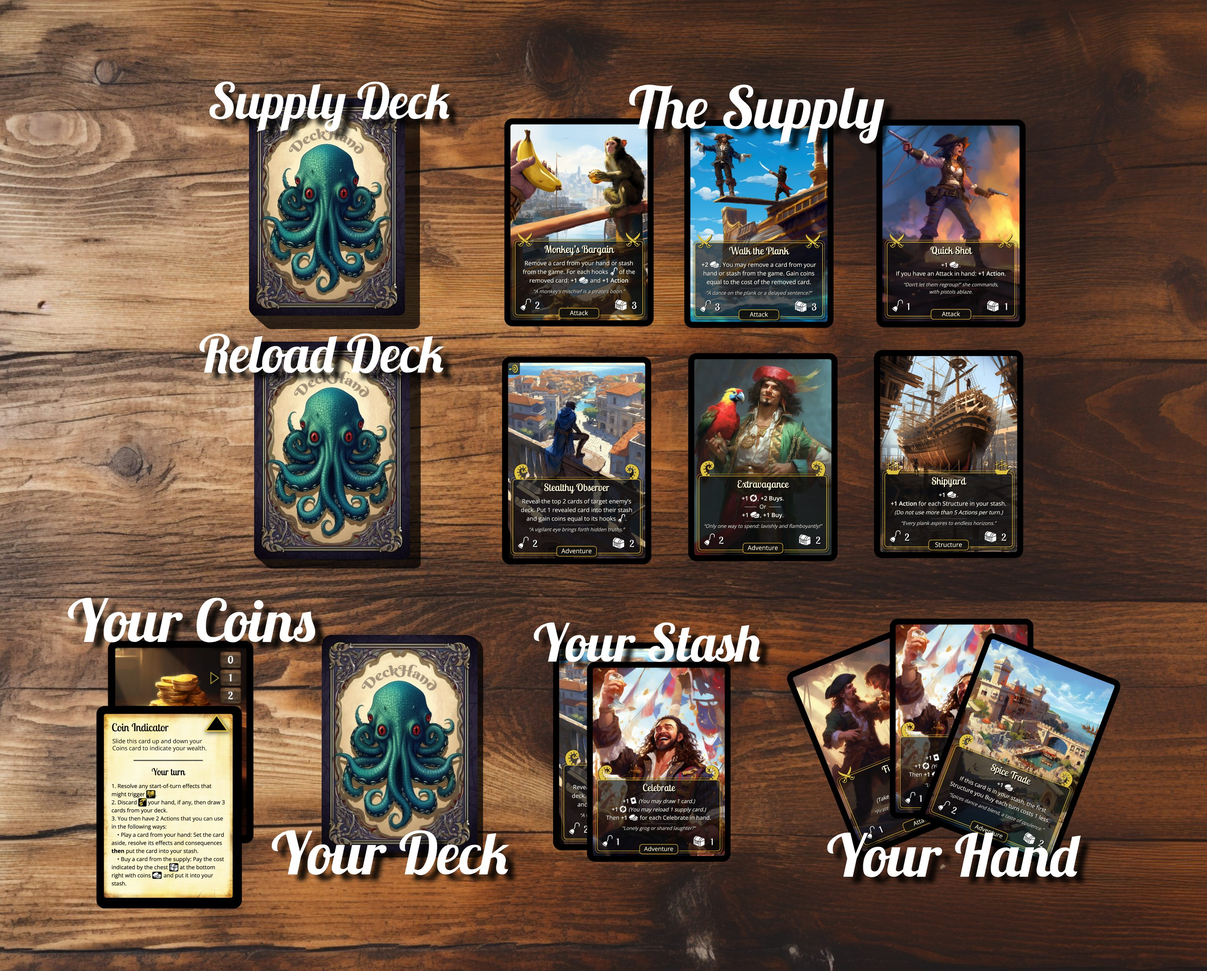
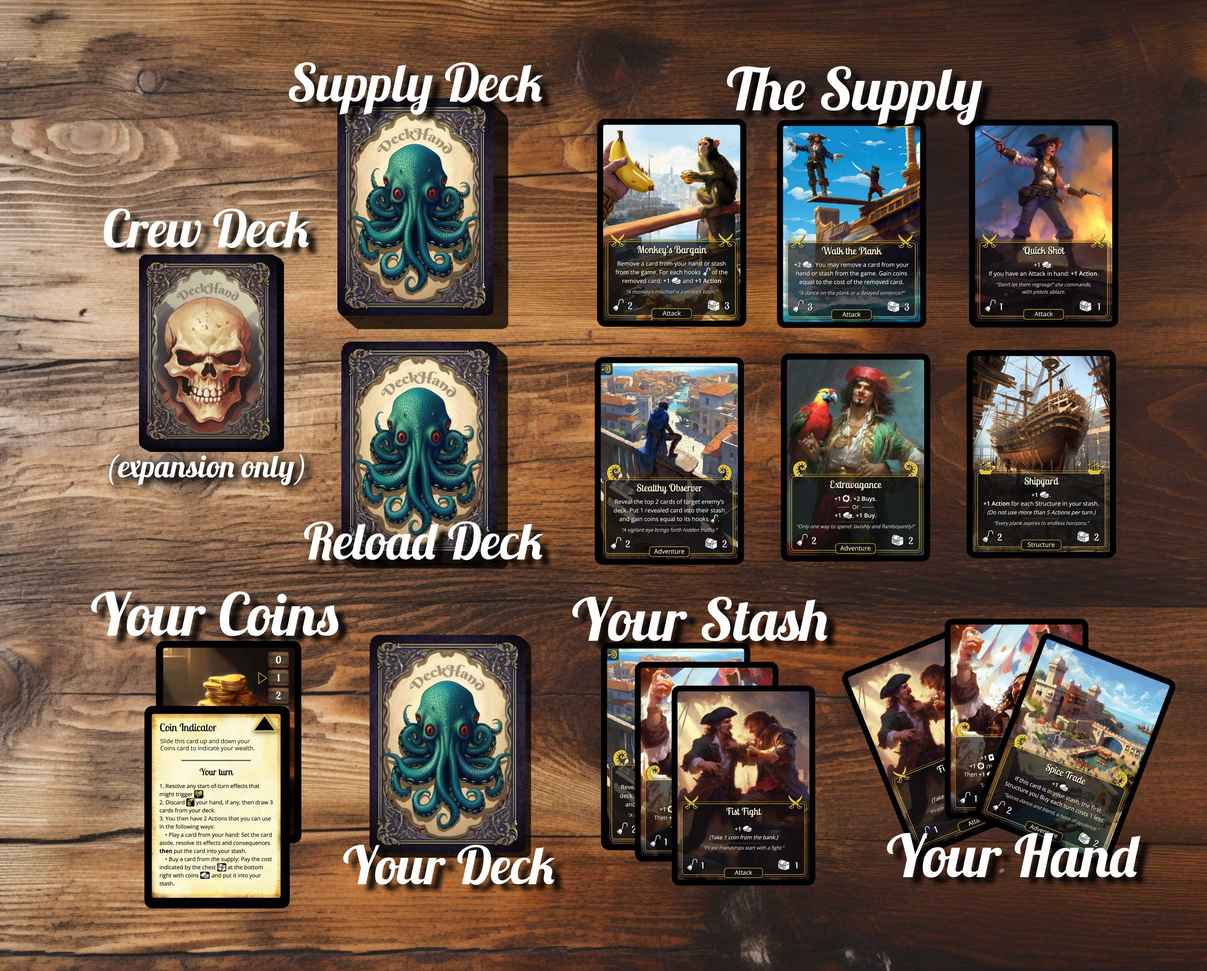
Update the marketing material

diff --git a/deckhand/how-to-play.html b/deckhand/how-to-play.html
@@ -654,10 +654,10 @@
         <h2 id="crew-expansion">Crew Expansion Rules</h2>
 
         <p>In the <a href="https://drive.google.com/drive/folders/1Q2YrPkwHwWGL1BouDfNLTK9Rz-WX4WWC">free expansion</a>, 
-            a new type of cards called "Crew" is introduced.
-            These cards reside in a separate deck. To hire a Crew during the game, 
-            expand an action and secretly choose one from the top 3 cards of the 
-            Crew deck, put 1 in front of you face down, one back on top of the Crew deck, and the last one at
+            a new type of cards called <b>Crew</b> is introduced.
+            These cards reside in a separate Crew deck. To hire a Crew during the game, 
+            expand an action and secretly look at the top 3 cards of this Crew deck, 
+            put 1 in front of you face down, one back on top of the deck, and the last one at
             the bottom.
             (refer to <a href="https://drive.google.com/drive/folders/1Q2YrPkwHwWGL1BouDfNLTK9Rz-WX4WWC">the rules</a> for complete instructions).
         </p>
